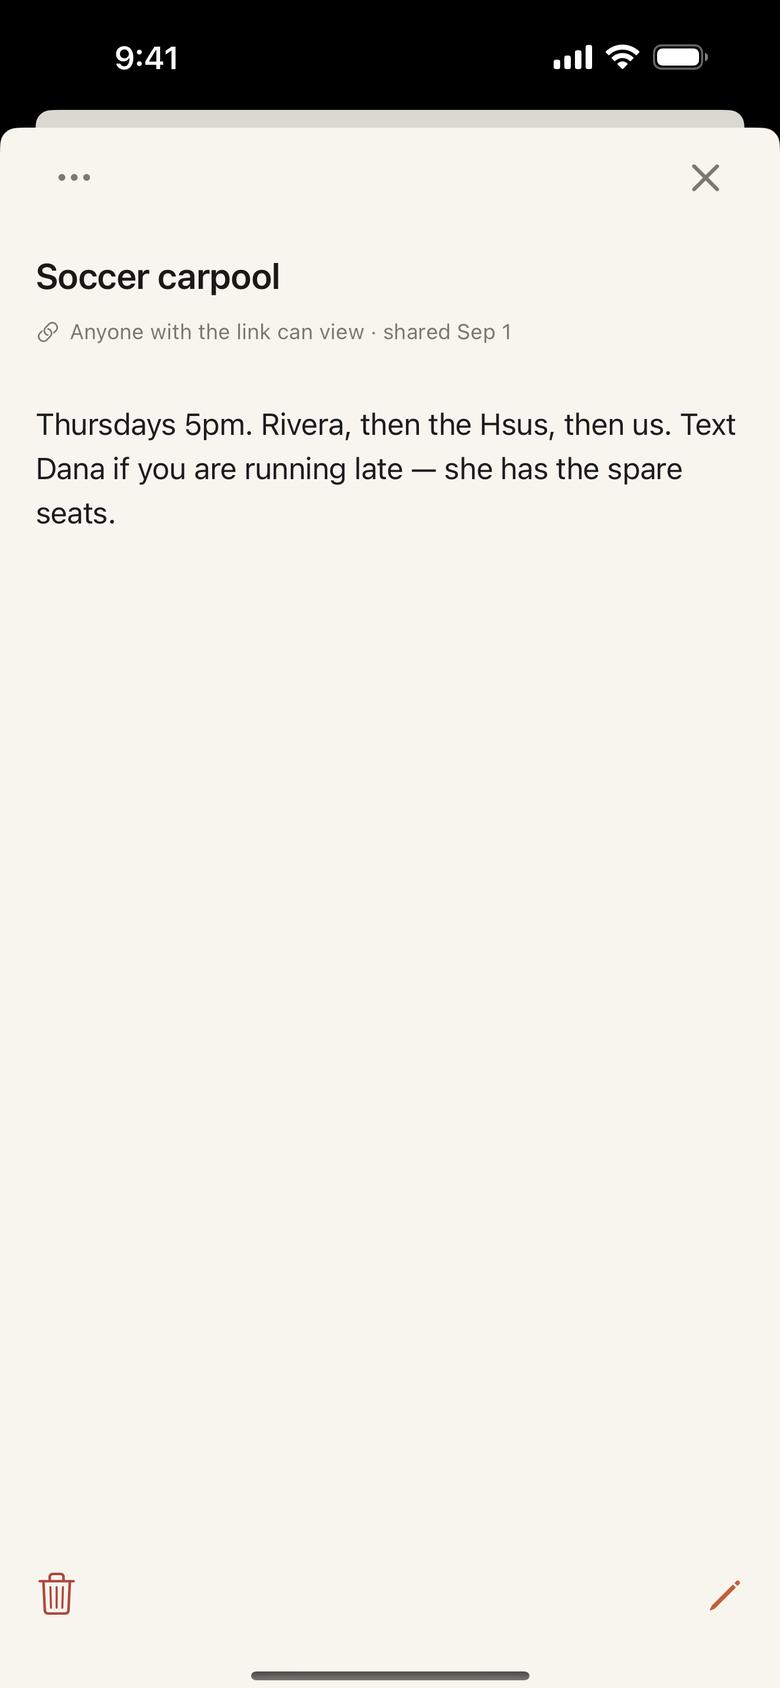
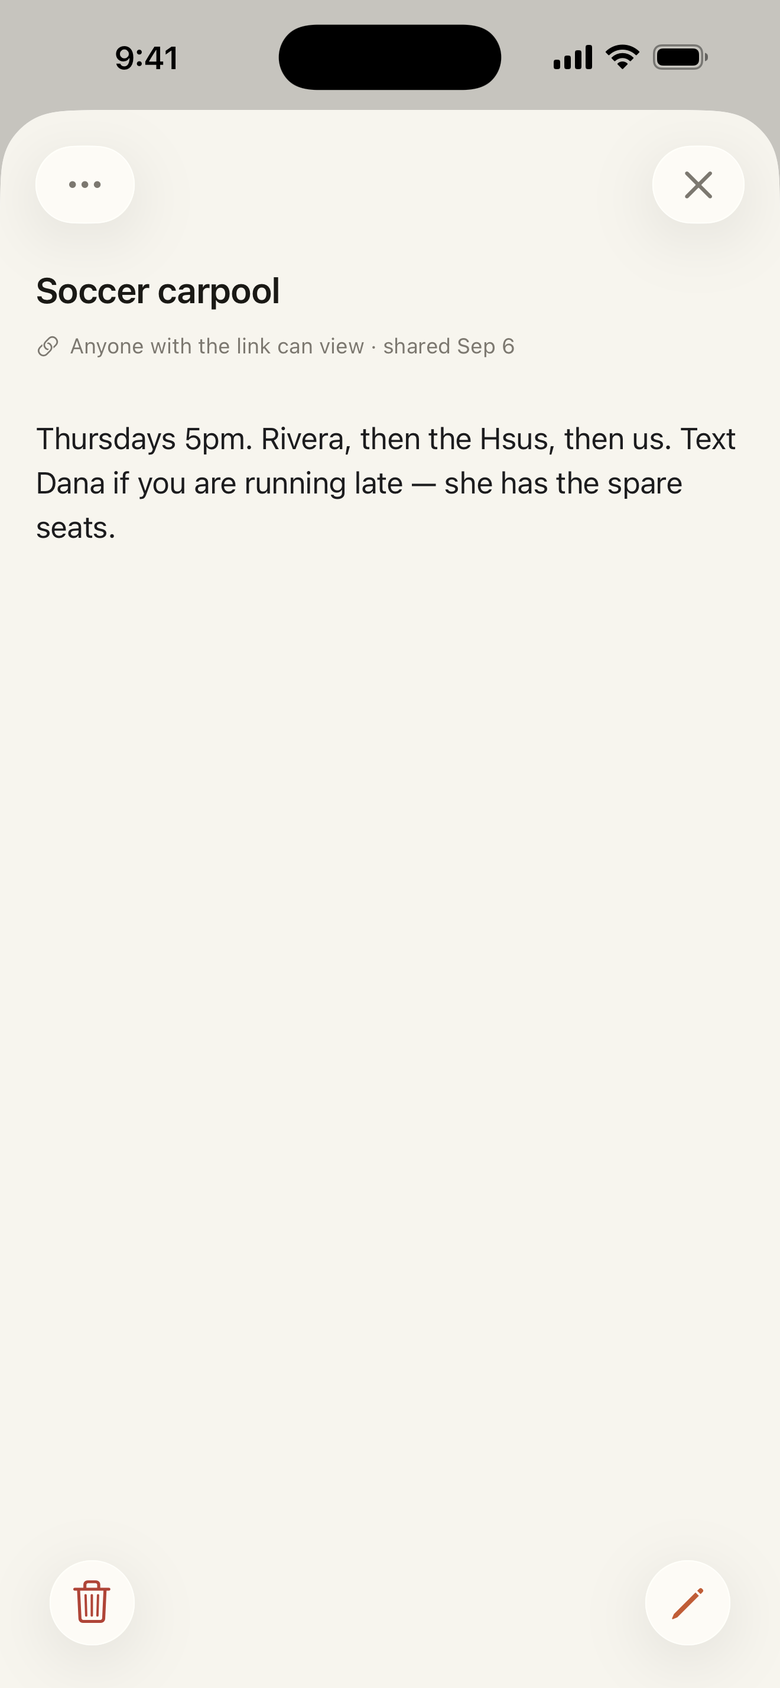
Reshoot on iOS 26, and make the hero a crossfade (#34)
* Make the hero a crossfade, not a single frozen frame

The pitch is a transformation — a jumbled sentence becomes filed things you can
find later — and no single frame carries it. Either end of the story looks weak
alone: the capture box is a picture of an empty box beside a headline that says
"Hillside files it for you", and the receipt is the payoff with nothing to
explain what produced it.

So the device holds three stills that crossfade: the box, what it filed, and
finding one of them later. 10.5s, 3.5s a frame, ~0.5s dissolve — slow enough to
read a screen at 200px and slow enough not to pull the eye off the headline.

**Stills, not a video, on purpose.** The last hero video was retired in befdfe5
for shipping two nav generations out of date, and that is the failure mode here:
a video needs recording, trimming and transcoding, so nobody refreshes it. These
are PNGs from `screenshots.sh`, which is now a one-command reshoot. Motion that
costs nothing to keep current is worth more than motion that rots.

`screens/hero-receipt.png` is the receipt with the modal's dimmed band replaced
by the real status bar from `home.png` — same device, same session, same 9:41.
Nothing invented; the band is the sheet presentation, and frozen in a hero it
reads as a black bar rather than as a sheet. It stays 780x1688 so the frame is
untouched.

Details worth keeping:
- The cream sits on `.reel`, not the `#000` a lone hero image gets. Mid-dissolve
[…]

diff --git a/styles.css b/styles.css
@@ -200,6 +200,43 @@
       border-radius: 38px;
       background: #000;
     }
+    /* The crossfading hero. Three stills stacked in the device; the first stays
+       in normal flow so it sets the height, the rest overlay it.
+
+       The screens' own cream sits on the reel rather than #000 (which the rule
+       above gives a lone hero image): mid-crossfade both frames are partly
+       transparent, and over black that reads as a flicker. Over cream it reads as
+       a dissolve, because cream is what the app is. */
+    .hero .device .reel {
+      position: relative;
+      border-radius: 38px;
+      overflow: hidden;
+      background: #F7F5EE;
+    }
+    .hero .device .reel img { background: none; border-radius: 0; }
+    .hero .device .reel img + img { position: absolute; inset: 0; }
+
+    /* 10.5s: 3.5s a frame, of which ~0.5s is the dissolve. Slow enough to read a
+       screen at this size, and slow enough not to pull the eye off the headline —
+       the hero argues, the reel illustrates. */
+    .hero .device .reel img { animation: hero-reel 10.5s infinite; }
+    .hero .device .reel img:nth-child(2) { animation-delay: -7s; }
+    .hero .device .reel img:nth-child(3) { animation-delay: -3.5s; }
+
+    @keyframes hero-reel {
+      0%     { opacity: 1 }
+      28.5%  { opacity: 1 }
+      33.3%  { opacity: 0 }
+      95.2%  { opacity: 0 }
+      100%   { opacity: 1 }
+    }
+
+    /* Reduced motion gets the first frame, full stop — not a slower loop. */
+    @media (prefers-reduced-motion: reduce) {
+      .hero .device .reel img { animation: none; }
+      .hero .device .reel img + img { display: none; }
+    }
+
     .hero figcaption {
       margin-top: 14px;
       font-size: 13px;

diff --git a/index.html b/index.html
@@ -76,10 +76,21 @@
       </div>
       <figure class="hero">
         <div class="device">
-          <img src="screens/compose.png" width="390" height="844"
-               alt="Hillside — one box, no fields or forms, for whatever's on your mind." />
+          <!-- Three stills crossfading, not a video: the pitch is a transformation
+               (a jumbled sentence becomes filed things you can find later) and no
+               single frame carries it. Stills stay refreshable by the screenshot
+               script, which is what the last hero video failed at — it shipped two
+               nav generations out of date before anyone noticed. First frame is the
+               one that must stand alone: it is what reduced-motion and any
+               animation failure fall back to. -->
+          <div class="reel">
+            <img src="screens/compose.png" width="390" height="844"
+                 alt="Hillside — one box, no fields or forms, for whatever's on your mind." />
+            <img src="screens/detail.png" width="390" height="844" alt="" aria-hidden="true" />
+            <img src="screens/search.png" width="390" height="844" alt="" aria-hidden="true" />
+          </div>
         </div>
-        <figcaption>One box. No fields, no forms.</figcaption>
+        <figcaption>Say it once. It lands where it goes.</figcaption>
       </figure>
     </section>
 
